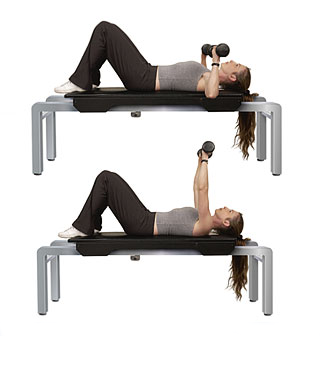
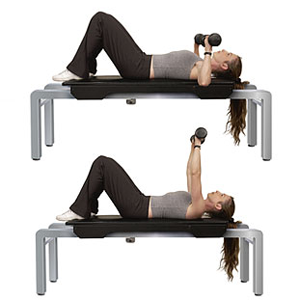
changed colors, and forgot about event bubbling; fixed pictures too

Changed region(s): [[0.09, 0.36, 0.9, 0.99], [0.09, 0.03, 0.93, 0.54]]

diff --git a/src/client/today-view.html b/src/client/today-view.html
@@ -20,10 +20,7 @@
     <!-- TODO: fix image, need more coffee -->
     <div class="layout vertical">
        <template is="dom-repeat" items="{{exercises}}">
-          <today-exercise-card exercise-title="{{item.name}}"
-            exercise-goal="{{item.goal}}"
-            exercise-image-url="images/bench-press.png"
-            on-cow="onExerciseTapped"></today-exercise-card>
+          <today-exercise-card exercise="{{item}}"></today-exercise-card>
         </template>
     </div>
 
@@ -80,25 +77,12 @@
       handleResponse: function(response)
       {
         console.log("today-view::handleResponse, response:", response.detail.response);
-        var todaysWorkout = response.detail.response;
-        var monday = new Date();
-        monday.setDate(monday.getDate() + 1);
-        var workout = this.getExercisesForDate(todaysWorkout, monday);
-        this.exercises = workout.exercises;
-      },
-
-      getExercisesForDate: function(workouts, date)
-      {
-          return _.find(workouts, function(workout)
-          {
-              return _.includes(workout.days, date.getDay());
-          });
-      },
-
-      onExerciseTapped: function(event, detail)
-      {
-        console.log("today-view::onExerciseTapped");
-        this.fire('selected', detail);
+        var me = this;
+        this.exercises = _.map(response.detail.response, function(exercise)
+        {
+          exercise.imageURL = me.getExerciseIcon(exercise.name);
+          return exercise;
+        });
       }
 
     });

diff --git a/src/api/api.js b/src/api/api.js
@@ -28,7 +28,53 @@ api.get('/api/workouts/today', function(req, res)
 {
     // TODO: calculate goal, for now hardcode
     console.log("*** /api/workouts ***");
-    res.json(workouts);
+    res.json([
+            {
+                name: 'Squat',
+                sets: [
+                    {
+                        reps: 5,
+                        weight: 45
+                    },
+                    {
+                        reps: 5,
+                        weight: 45
+                    },
+                    {
+                        reps: 5,
+                        weight: 45
+                    }
+                ]
+            },
+
+            {
+                name: 'Bench Press',
+                sets: [
+                    {
+                        reps: 5,
+                        weight: 45
+                    },
+                    {
+                        reps: 5,
+                        weight: 45
+                    },
+                    {
+                        reps: 5,
+                        weight: 45
+                    }
+                ]
+            },
+
+            {
+                name: 'Deadlift',
+                sets: [
+                    {
+                        reps: 5,
+                        weight: 45
+                    }
+                ]
+            }
+        ]);
 });
 
 

diff --git a/src/client/today-exercise-card.html b/src/client/today-exercise-card.html
@@ -10,19 +10,22 @@
     padding: 12px;
   }
 
+  img {
+    width: 220px;
+    height: 220px;
+  }
+
   </style>
   
   <template>
     
     <style include="common-styles"></style>
 
-    <paper-card heading="{{exerciseTitle}}"
-      image$="{{exerciseImageURL}}">
+    <paper-card heading="{{exercise.name}}">
       <div class="card-content">
         <div class="layout horizontal">
-          <div>{{exerciseGoal}}</div>
-          <!-- TODO: use iron-icon -->
-          <!-- <img src="{{exerciseImageURL}}"></div> -->
+            <div>{{exercise.goal}}</div>
+            <img src="{{exercise.imageURL}}"></img>
         </div>
       </div>
     </paper-card>
@@ -40,20 +43,9 @@
 
       properties: {
 
-        exerciseTitle: {
-          type: String,
-          value: "???"
-        },
-
-        exerciseGoal: {
-          type: String,
-          value: "???"
-        },
-
-        exerciseImageURL: {
-          type: String,
-          value: "???",
-          observer: '_onImageChanged'
+        exercise: {
+          type: Object,
+          value: null
         }
       },
 
@@ -69,7 +61,7 @@
       onCardTap: function()
       {
         console.log("today-exercise-card::onCardTap");
-        this.fire('cow', {name: this.exerciseTitle});
+        this.fire('selected', this.exercise);
       }
 
     });

diff --git a/src/client/app-view.html b/src/client/app-view.html
@@ -1,20 +1,21 @@
+<link rel="import" href="common-styles.html">
+
 <dom-module id="app-view">
 
   <style>
 
   :host{
-    position: relative;
-    display: inline-block;
-    padding: 12px;
   }
 
   </style>
   
   <template>
+
+    <style include="common-styles"></style>
     
     <paper-toolbar>
         <paper-icon-button icon="menu" on-tap="menuAction"></paper-icon-button>
-            <div class="title">Starting Strength</div>
+            <div class="title">{{getTitle(breadcrumbs)}}</div>
         <paper-icon-button icon="more-vert" on-tap="moreAction"></paper-icon-button>
     </paper-toolbar>
 
@@ -38,12 +39,25 @@
         selectedPageIndex: {
           type: Number,
           value: 0
+        },
+
+        breadcrumbs: {
+          type: Array,
+          value: ['Starting Strength']
         }
       },
 
-      onShowExercise: function(event, detail)
+      getTitle: function(breadcrumbs)
+      {
+        return breadcrumbs.join(" > ")
+      },
+
+      onShowExercise: function(event, exercise)
       {
         this.selectedPageIndex = 1;
+        var list = _.toArray(this.breadcrumbs);
+        list.push(exercise.name);
+        this.breadcrumbs = list;
       }
 
 

diff --git a/src/api/workouts.js b/src/api/workouts.js
@@ -55,11 +55,24 @@ function getRestDaysFromWorkoutDays(workoutDays)
 	return _.difference([0, 1, 2, 3, 4, 5, 6], workoutDays);
 }
 
+function getWorkoutForToday()
+{
+	// var today = new Date().getDay();
+	// var workoutSchedule = getDefaultWorkoutSchedule();
+	// return _.find(workoutSchedule, function(schedule)
+	// {
+	// 	return _.includes(schedule.days, today);
+	// }).exercises;
+	
+
+}
+
 var workouts = {
 	validDate: validDate,
 	goodDate: goodDate,
 	getDefaultWorkoutSchedule: getDefaultWorkoutSchedule,
-	getWorkoutSchedule: getWorkoutSchedule
+	getWorkoutSchedule: getWorkoutSchedule,
+	getWorkoutForToday: getWorkoutForToday
 
 };
 

diff --git a/src/client/common-styles.html b/src/client/common-styles.html
@@ -8,17 +8,17 @@
     }
 
     a:link {
-      color: #FF9100;
+      color: #FF5252;
     }
 
     a:visited { 
-      color: #FF9100;
+      color: #FF1744;
       text-decoration: underline;
       cursor: auto;
     }
 
     a:link:active, a:visited:active { 
-      color: #FF9100;
+      color: #FF8A80;
       text-decoration: underline;
     }
 
@@ -27,7 +27,12 @@
     }
 
     paper-button {
-      color: #FFAB40;
+      color: #FF5252;
+    }
+
+    paper-toolbar {
+      --paper-toolbar-background: #2196F3;
+      --paper-toolbar-color: #FFFFFF;
     }
 
     .error {

diff --git a/src/api/workouts.spec.js b/src/api/workouts.spec.js
@@ -113,6 +113,15 @@ describe('#workouts', function() {
     	});
     });
 
+    describe('#workoutSchedule', function()
+    {
+        it('getWorkoutForToday', function()
+        {
+            console.log("workouts.getWorkoutForToday():", workouts.getWorkoutForToday());
+            workouts.getWorkoutForToday().should.not.be.null;
+        });
+    });
+
     
 
     
